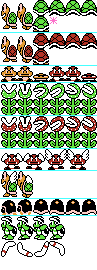
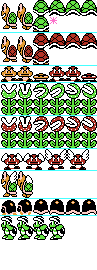
Add Boomerang (complete)

Changed region(s): [[0.0, 0.8889, 0.6804, 0.9778]]

diff --git a/Game/Boomerang.cpp b/Game/Boomerang.cpp
@@ -1,0 +1,190 @@
+#include "Boomerang.h"
+
+Boomerang::Boomerang(float x, float y, int direction, LPGAMEOBJECT thrower)
+{
+	this->x = x;
+	this->y = y;
+
+	this->vx = direction * BULLET_BOOMERANG_START_VX;
+	this->vy = -BULLET_BOOMERANG_START_VY;
+
+	this->width = BULLET_BOOMERANG_WIDTH;
+	this->height = BULLET_BOOMERANG_HEIGHT;
+	this->direction = direction;
+
+	this->thrower = thrower;
+	this->draw_order = BULLET_DRAW_ORDER;
+	this->bulletType = BULLET_BOOMERANG_TYPE;
+	this->type = eType::ENEMY_BULLET;
+	this->state = BULLET_STATE_MOVING;
+	this->animation_set = AnimationManager::GetInstance()->Get(BULLET);
+
+	this->Add();
+}
+
+void Boomerang::Add()
+{
+	LPSCENE scene = SceneManager::GetInstance()->GetCurrentScene();
+	LPTESTSCENE current = dynamic_cast<LPTESTSCENE>(scene);
+	current->Add(this);
+	mario = current->GetMario();
+
+}
+
+void Boomerang::Destroy()
+{
+	LPSCENE scene = SceneManager::GetInstance()->GetCurrentScene();
+	LPTESTSCENE current = dynamic_cast<LPTESTSCENE>(scene);
+
+	current->Destroy(this);
+
+}
+
+void Boomerang::GetBoundingBox(float& left, float& top, float& right, float& bottom)
+{
+	left = x;
+	top = y;
+	right = x + this->width;
+	bottom = y + this->height;
+}
+
+void Boomerang::Update(DWORD dt, vector<LPGAMEOBJECT>* coObjects)
+{
+	// Calculate dx, dy 
+	GameObject::Update(dt);
+
+	vector<LPCOLLISIONEVENT> coEvents;
+	vector<LPCOLLISIONEVENT> coEventsResult;
+	coEvents.clear();
+
+	// Simple fall down
+	if (PAUSE == false)
+	{
+		thrower->GetPosition(throwerX, throwerY);
+
+		x += dx;
+		y += dy;
+
+		if (y > throwerY + BULLET_BOOMERANG_OFFSET_Y)
+			vy = 0;
+		else
+			vy += BULLET_BOOMERANG_REFLECT_VY * dt;
+
+		if (direction > 0 && vx < 0)
+		{
+			if (x < throwerX)
+			{
+				this->Destroy();
+				return;
+			}
+		}
+		else if (direction < 0 && vx > 0)
+		{
+			if (x > throwerX)
+			{
+				this->Destroy();
+				return;
+			}
+		}
+
+		vx += -direction * BULLET_BOOMERANG_REFLECT_VX * dt;
+
+		CalcPotentialCollisions(coObjects, coEvents, { eType::ENEMY, eType::ENEMY_BULLET, eType::ENEMY_MOB_DIE, eType::P_BLOCK,
+			eType::BLOCK, eType::GROUP, eType::BRICK, eType::QUESTION, eType::PLAYER_UNTOUCHABLE, eType::PLATFORM , eType::ITEM, eType::GROUP_MOVING });
+
+	}
+	else
+	{
+		vx = 0;
+		vy = 0;
+		return;
+	}
+
+	GameEngine::GetInstance()->GetCamPos(camPosX, camPosY);
+	if (state == BULLET_STATE_IDLE)
+	{
+		vx = 0;
+		vy = 0;
+	}
+
+	// No collision occured, proceed normally
+	//DebugOut(L"Size: %d \n", coEvents.size());
+	//DebugOut(L"Result: %d\n", result);
+
+	if (coEvents.size() != 0)
+	{
+		float min_tx, min_ty;
+		float rdx = 0;
+		float rdy = 0;
+
+		// TODO: This is a very ugly designed function!!!!
+		FilterCollision(coEvents, coEventsResult, min_tx, min_ty, nx, ny, rdx, rdy);
+
+
+		//DebugOut(L"vx: %f -- vy: %f\n", vx, vy);
+		//DebugOut(L"nx: %f -- ny: %f", nx, ny);
+
+
+		//
+		// Collision logic with other objects
+		//
+
+		for (UINT i = 0; i < coEventsResult.size(); i++)
+		{
+			LPCOLLISIONEVENT e = coEventsResult[i];
+			if (e->obj->GetType() == eType::PLAYER)
+				e->obj->SetState(MARIO_STATE_HIT);
+
+		}
+
+	}
+
+	//DebugOut(L"x: %f -- y:%f\n", x, y);
+
+	// clean up collision events
+	for (UINT i = 0; i < coEvents.size(); i++)
+	{
+		delete coEvents[i];
+		coEvents[i] = NULL;
+	}
+
+	if (x < camPosX - BULLET_SAFE_DELETE_RANGE || x > camPosX + SCREEN_WIDTH + BULLET_SAFE_DELETE_RANGE ||
+		y < camPosY - BULLET_SAFE_DELETE_RANGE || y > camPosY + SCREEN_HEIGHT + BULLET_SAFE_DELETE_RANGE)
+	{
+		this->Destroy();
+		return;
+	}
+}
+
+void Boomerang::Render()
+{
+	int ani = -1;
+
+	if (direction > 0) ani = bulletType + BULLET_ANI_RIGHT;
+	else ani = bulletType + BULLET_ANI_LEFT;
+
+	animation_set->Get(ani)->Render(x, y);
+	RenderBoundingBox();
+
+}
+
+void Boomerang::SetState(int state)
+{
+	GameObject::SetState(state);
+	DWORD now = GetTickCount();
+
+	switch (state)
+	{
+	case BULLET_STATE_IDLE:
+		break;
+	case BULLET_STATE_MOVING:
+		break;
+	}
+}
+
+Boomerang::~Boomerang()
+{
+	animation_set = NULL;
+	sprite = NULL;
+
+}

diff --git a/Game/BoomerangBro.cpp b/Game/BoomerangBro.cpp
@@ -75,6 +75,7 @@ void BoomerangBro::Update(DWORD dt, vector<LPGAMEOBJECT>* coObjects)
 
 			timeLeft_dt = GetTickCount() - timeLeft;
 			timeJump_dt = GetTickCount() - timeJump;
+			timeThrow_dt = GetTickCount() - timeThrow_dt;
 
 			firstRun = false;
 		}
@@ -100,6 +101,7 @@ void BoomerangBro::Update(DWORD dt, vector<LPGAMEOBJECT>* coObjects)
 
 		timeLeft = GetTickCount() - timeLeft_dt;
 		timeJump = GetTickCount() - timeJump_dt;
+		timeThrow = GetTickCount() - timeThrow_dt;
 
 		return;
 	}
@@ -133,11 +135,29 @@ void BoomerangBro::Update(DWORD dt, vector<LPGAMEOBJECT>* coObjects)
 					timeJump = GetTickCount();
 				}
 
-				if (GetTickCount() - timeThrow > ENEMY_BRO_TIME_THROW)
+				if (steady)
 				{
-					steady = !steady;
-					timeThrow = GetTickCount();
+					if (GetTickCount() - timeThrow > ENEMY_BRO_TIME_THROW_READY)
+					{
+						steady = false;
+						timeThrow = GetTickCount();
+
+						if (direction > 0)
+							Boomerang* boomerang = new Boomerang(x + width / 2, y, facing, this);
+						else
+							Boomerang* boomerang = new Boomerang(x, y, facing, this);
+
+					}
 				}
+				else
+				{
+					if (GetTickCount() - timeThrow > ENEMY_BRO_TIME_THROW_WAIT)
+					{
+						steady = true;
+						timeThrow = GetTickCount();
+					}
+				}
+				
 
 				if (this->x < tempX)
 					facing = 1;

diff --git a/Game/Boomerang.h b/Game/Boomerang.h
@@ -1,0 +1,33 @@
+#pragma once
+#include "Bullet.h"
+#include "TestScene.h"
+
+//Basic info
+#define BULLET_BOOMERANG_WIDTH			12
+#define BULLET_BOOMERANG_HEIGHT			12
+
+#define BULLET_BOOMERANG_START_VX		0.2f
+#define BULLET_BOOMERANG_START_VY		0.1f
+#define BULLET_BOOMERANG_REFLECT_VX		0.0002f
+#define BULLET_BOOMERANG_REFLECT_VY		0.00018f
+
+#define BULLET_BOOMERANG_OFFSET_Y		4.0f
+
+class Boomerang : public Bullet
+{
+	float throwerX, throwerY;
+	LPGAMEOBJECT thrower;
+
+public:
+	Boomerang(float x, float y, int direction, LPGAMEOBJECT thrower);
+
+	void Add();
+	void Destroy();
+
+	virtual void GetBoundingBox(float& left, float& top, float& right, float& bottom);
+	virtual void Update(DWORD dt, vector<LPGAMEOBJECT>* coObjects = NULL);
+	virtual void Render();
+	virtual void SetState(int state);
+
+	~Boomerang();
+};

diff --git a/Game/BoomerangBro.h b/Game/BoomerangBro.h
@@ -1,6 +1,7 @@
 #pragma once
 
 #include "GameObject.h"
+#include "Boomerang.h"
 #include "TestScene.h"
 
 //Basic info
@@ -13,7 +14,8 @@
 #define ENEMY_BRO_JUMP					0.1f
 
 #define ENEMY_BRO_TIME_SWITCH			2000
-#define ENEMY_BRO_TIME_THROW			2000
+#define ENEMY_BRO_TIME_THROW_READY		2000
+#define ENEMY_BRO_TIME_THROW_WAIT		8000
 #define ENEMY_BRO_TIME_JUMP				5000
 
 #define ENEMY_BRO_THROW_RANGE			96.0f
@@ -43,7 +45,7 @@ class BoomerangBro : public GameObject
 	int lastState;
 	DWORD timeLeft_dt;
 	DWORD timeJump_dt;
-
+	DWORD timeThrow_dt;
 public:
 	BoomerangBro(int placeX, int placeY, int mobType);
 
